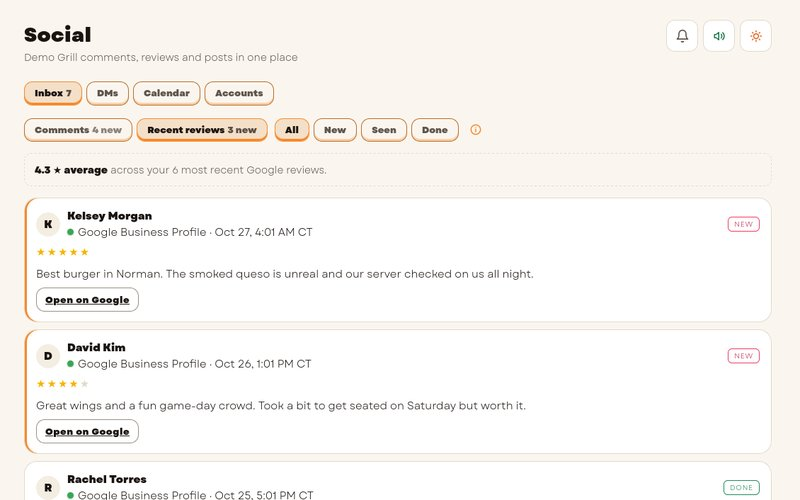
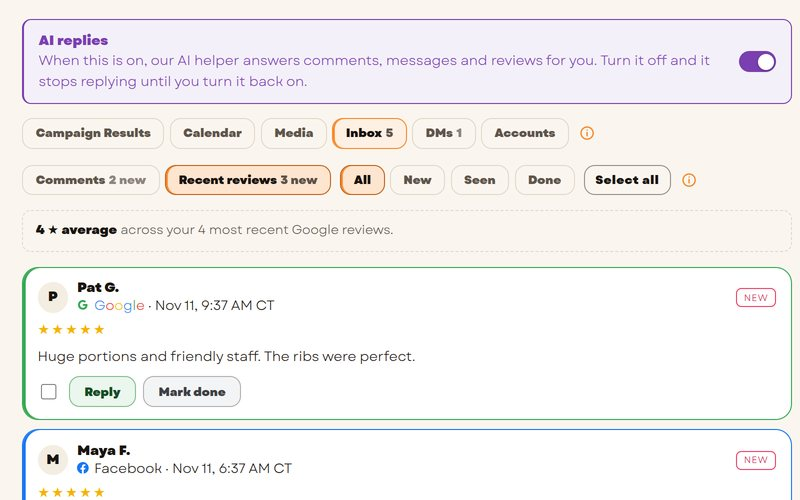
Mother Sauce page: refresh 11 screenshots and name AI replies in the Social card
Eleven screenshots replaced (jpg + webp, same paths, cache-busted to v=4):
menu builder, reservations, catering menus, dashboard hero, hiring jobs card,
team roles card, blog card, email alerts card, social card, reputation card,
site analytics card. The Social Media card now says the AI replies handle the
comments, messages and reviews that come back. Alt text unchanged.

diff --git a/sites/loadednacho/public/mother-sauce.html b/sites/loadednacho/public/mother-sauce.html
@@ -9,7 +9,7 @@
 <meta property="og:title" content="Mother Sauce | Loaded Nacho"><meta property="og:image" content="https://loadednacho.com/assets/img/logo-full.png">
 <link rel="icon" href="/favicon.ico?v=8" sizes="48x48"><link rel="icon" type="image/png" sizes="32x32" href="/assets/img/favicon-32.png?v=8"><link rel="icon" type="image/png" sizes="16x16" href="/assets/img/favicon-16.png?v=8"><link rel="icon" type="image/png" sizes="192x192" href="/assets/img/favicon-192.png?v=8"><link rel="apple-touch-icon" href="/assets/img/apple-touch-icon.png?v=8"><link rel="preload" href="/assets/fonts/Garet-Heavy.woff2" as="font" type="font/woff2" crossorigin>
 
-<link rel="stylesheet" href="/assets/style.css?v=34"><link rel="stylesheet" href="/assets/theme.css?v=23"><link rel="stylesheet" href="/assets/ms.css?v=18"><script type="application/ld+json">{"@context": "https://schema.org", "@type": "SoftwareApplication", "name": "Mother Sauce", "url": "https://loadednacho.com/mother-sauce", "sameAs": ["https://mothersauce.app"], "applicationCategory": "BusinessApplication", "operatingSystem": "Web", "description": "Mother Sauce is the Loaded Nacho command center for restaurants: one sign-in to manage menus and hours, reservations, catering, hiring, team roles, blog, email alerts, social media, reputation and site analytics. A live demo with sample data is at https://mothersauce.app/demo.", "image": "https://loadednacho.com/assets/img/ms/ms-dashboard-hero.jpg", "potentialAction": {"@type": "ViewAction", "name": "Try the live demo", "target": "https://mothersauce.app/demo"}, "publisher": {"@type": "Organization", "name": "Loaded Nacho LLC", "url": "https://loadednacho.com/", "logo": {"@type": "ImageObject", "url": "https://loadednacho.com/assets/img/mark.png"}}}</script>
+<link rel="stylesheet" href="/assets/style.css?v=34"><link rel="stylesheet" href="/assets/theme.css?v=23"><link rel="stylesheet" href="/assets/ms.css?v=18"><script type="application/ld+json">{"@context": "https://schema.org", "@type": "SoftwareApplication", "name": "Mother Sauce", "url": "https://loadednacho.com/mother-sauce", "sameAs": ["https://mothersauce.app"], "applicationCategory": "BusinessApplication", "operatingSystem": "Web", "description": "Mother Sauce is the Loaded Nacho command center for restaurants: one sign-in to manage menus and hours, reservations, catering, hiring, team roles, blog, email alerts, social media, reputation and site analytics. A live demo with sample data is at https://mothersauce.app/demo.", "image": "https://loadednacho.com/assets/img/ms/ms-dashboard-hero.jpg?v=4", "potentialAction": {"@type": "ViewAction", "name": "Try the live demo", "target": "https://mothersauce.app/demo"}, "publisher": {"@type": "Organization", "name": "Loaded Nacho LLC", "url": "https://loadednacho.com/", "logo": {"@type": "ImageObject", "url": "https://loadednacho.com/assets/img/mark.png"}}}</script>
 </head><body>
 <div class="grain"></div>
 <header class="nav" id="nav"><a href="/" class="brand"><img src="/assets/img/mark.png" alt="" width="40" height="40"><span>LOADED<b>NACHO</b></span></a>
@@ -20,19 +20,19 @@
 <main>
 <section id="features" class="sec"><div class="head reveal"><p class="kicker">What's inside</p><h2>Everything in <span class="hl">one place.</span></h2><p class="small">Screens show a demo restaurant with sample data.</p></div>
 <div class="ms-shots">
-<div class="ms-shot reveal"><div class="txt"><h3>Menu Builder &amp; Hours</h3><p>Build and update your menu: dishes, prices, photos and sold-out items go live on your site. Set weekly hours for each location and handle holiday changes.</p></div><div class="ms-frame"><div class="bar"><i></i><i></i><i></i><span>mothersauce.app</span></div><picture><source type="image/webp" srcset="/assets/img/ms/ms-menu-builder.webp"><img src="/assets/img/ms/ms-menu-builder.jpg" alt="Mother Sauce menu builder with a Starters category: item name, price, description, photo, sold-out and catering toggles (demo data)" width="1500" height="938" loading="lazy" decoding="async"></picture></div></div>
-<div class="ms-shot reveal"><div class="txt"><h3>Reservations</h3><p>Every table request from your website lands in one list, so nothing slips through on a busy night.</p></div><div class="ms-frame"><div class="bar"><i></i><i></i><i></i><span>mothersauce.app</span></div><picture><source type="image/webp" srcset="/assets/img/ms/ms-reservations.webp?v=2"><img src="/assets/img/ms/ms-reservations.jpg?v=2" alt="Mother Sauce reservations screen with email alerts, booking rules, and upcoming bookings with call, email and status buttons (demo data)" width="1400" height="875" loading="lazy" decoding="async"></picture></div></div>
-<div class="ms-shot reveal"><div class="txt"><h3>Catering &amp; Catering Menus</h3><p>Publish catering menus separate from your main menu, and track every catering inquiry from first request to booked.</p></div><div class="ms-frame"><div class="bar"><i></i><i></i><i></i><span>mothersauce.app</span></div><picture><source type="image/webp" srcset="/assets/img/ms/ms-catering-menus.webp"><img src="/assets/img/ms/ms-catering-menus.jpg" alt="Mother Sauce catering menus screen showing a Party Trays menu with sizes, price per person, serves and minimum (demo data)" width="1500" height="938" loading="lazy" decoding="async"></picture></div></div>
+<div class="ms-shot reveal"><div class="txt"><h3>Menu Builder &amp; Hours</h3><p>Build and update your menu: dishes, prices, photos and sold-out items go live on your site. Set weekly hours for each location and handle holiday changes.</p></div><div class="ms-frame"><div class="bar"><i></i><i></i><i></i><span>mothersauce.app</span></div><picture><source type="image/webp" srcset="/assets/img/ms/ms-menu-builder.webp?v=4"><img src="/assets/img/ms/ms-menu-builder.jpg?v=4" alt="Mother Sauce menu builder with a Starters category: item name, price, description, photo, sold-out and catering toggles (demo data)" width="1500" height="938" loading="lazy" decoding="async"></picture></div></div>
+<div class="ms-shot reveal"><div class="txt"><h3>Reservations</h3><p>Every table request from your website lands in one list, so nothing slips through on a busy night.</p></div><div class="ms-frame"><div class="bar"><i></i><i></i><i></i><span>mothersauce.app</span></div><picture><source type="image/webp" srcset="/assets/img/ms/ms-reservations.webp?v=4"><img src="/assets/img/ms/ms-reservations.jpg?v=4" alt="Mother Sauce reservations screen with email alerts, booking rules, and upcoming bookings with call, email and status buttons (demo data)" width="1400" height="875" loading="lazy" decoding="async"></picture></div></div>
+<div class="ms-shot reveal"><div class="txt"><h3>Catering &amp; Catering Menus</h3><p>Publish catering menus separate from your main menu, and track every catering inquiry from first request to booked.</p></div><div class="ms-frame"><div class="bar"><i></i><i></i><i></i><span>mothersauce.app</span></div><picture><source type="image/webp" srcset="/assets/img/ms/ms-catering-menus.webp?v=4"><img src="/assets/img/ms/ms-catering-menus.jpg?v=4" alt="Mother Sauce catering menus screen showing a Party Trays menu with sizes, price per person, serves and minimum (demo data)" width="1500" height="938" loading="lazy" decoding="async"></picture></div></div>
 </div>
 <div class="head reveal ms-more-head"><p class="kicker">And more</p><h2>Everything else <span class="hl">you need.</span></h2></div>
 <div class="ms-grid">
-<article class="ms-card reveal"><div class="ms-frame"><picture><source type="image/webp" srcset="/assets/img/ms/ms-hiring-jobs-card.webp"><img src="/assets/img/ms/ms-hiring-jobs-card.jpg" alt="Mother Sauce job listings with pay, location, applicant counts and site status (demo data)" width="800" height="500" loading="lazy" decoding="async"></picture></div><h3>Hiring</h3><p>Post open jobs on your site and review applications as they come in.</p></article>
-<article class="ms-card reveal"><div class="ms-frame"><picture><source type="image/webp" srcset="/assets/img/ms/ms-team-roles-card.webp"><img src="/assets/img/ms/ms-team-roles-card.jpg" alt="Mother Sauce team screen: invite form with role presets and a per-section permission grid (demo data)" width="800" height="500" loading="lazy" decoding="async"></picture></div><h3>Team Roles</h3><p>Give managers and staff their own sign-in with the right level of access.</p></article>
-<article class="ms-card reveal"><div class="ms-frame"><picture><source type="image/webp" srcset="/assets/img/ms/ms-blog-card.webp"><img src="/assets/img/ms/ms-blog-card.jpg" alt="Mother Sauce blog posts list with published, scheduled and draft posts and a New post button (demo data)" width="800" height="500" loading="lazy" decoding="async"></picture></div><h3>Blog</h3><p>Write and publish posts to your website to share news, events and stories.</p></article>
-<article class="ms-card reveal"><div class="ms-frame"><picture><source type="image/webp" srcset="/assets/img/ms/ms-email-alerts-card.webp"><img src="/assets/img/ms/ms-email-alerts-card.jpg" alt="Mother Sauce notice contacts: email alert recipients with per-event toggles and Send test (demo data)" width="800" height="500" loading="lazy" decoding="async"></picture></div><h3>Email Alerts</h3><p>Get an email the moment a new reservation, catering request or application comes in.</p></article>
-<article class="ms-card reveal"><div class="ms-frame"><picture><source type="image/webp" srcset="/assets/img/ms/ms-social-card.webp?v=1"><img src="/assets/img/ms/ms-social-card.jpg?v=1" alt="Mother Sauce social calendar: an October month view with scheduled Facebook, Instagram, Google Business Profile and TikTok posts (demo data)" width="800" height="500" loading="lazy" decoding="async"></picture></div><h3>Social Media</h3><p>Plan and keep up with your social media from the same place you run your site.</p></article>
-<article class="ms-card reveal"><div class="ms-frame"><picture><source type="image/webp" srcset="/assets/img/ms/ms-reputation-card.webp?v=1"><img src="/assets/img/ms/ms-reputation-card.jpg?v=1" alt="Mother Sauce review inbox: average rating and recent Google reviews with new and done status and Open on Google buttons (demo data)" width="800" height="500" loading="lazy" decoding="async"></picture></div><h3>Reputation</h3><p>A review inbox with your recent Google reviews, so you can see and respond to what guests are saying.</p></article>
-<article class="ms-card reveal"><div class="ms-frame"><picture><source type="image/webp" srcset="/assets/img/ms/ms-site-analytics-card.webp"><img src="/assets/img/ms/ms-site-analytics-card.jpg" alt="Mother Sauce analytics: visit and page view stats, a website traffic chart, traffic sources and top landing pages (demo data)" width="800" height="500" loading="lazy" decoding="async"></picture></div><h3>Site Analytics</h3><p>See how many people visit your site, where they come from and what they look at.</p></article>
+<article class="ms-card reveal"><div class="ms-frame"><picture><source type="image/webp" srcset="/assets/img/ms/ms-hiring-jobs-card.webp?v=4"><img src="/assets/img/ms/ms-hiring-jobs-card.jpg?v=4" alt="Mother Sauce job listings with pay, location, applicant counts and site status (demo data)" width="800" height="500" loading="lazy" decoding="async"></picture></div><h3>Hiring</h3><p>Post open jobs on your site and review applications as they come in.</p></article>
+<article class="ms-card reveal"><div class="ms-frame"><picture><source type="image/webp" srcset="/assets/img/ms/ms-team-roles-card.webp?v=4"><img src="/assets/img/ms/ms-team-roles-card.jpg?v=4" alt="Mother Sauce team screen: invite form with role presets and a per-section permission grid (demo data)" width="800" height="500" loading="lazy" decoding="async"></picture></div><h3>Team Roles</h3><p>Give managers and staff their own sign-in with the right level of access.</p></article>
+<article class="ms-card reveal"><div class="ms-frame"><picture><source type="image/webp" srcset="/assets/img/ms/ms-blog-card.webp?v=4"><img src="/assets/img/ms/ms-blog-card.jpg?v=4" alt="Mother Sauce blog posts list with published, scheduled and draft posts and a New post button (demo data)" width="800" height="500" loading="lazy" decoding="async"></picture></div><h3>Blog</h3><p>Write and publish posts to your website to share news, events and stories.</p></article>
+<article class="ms-card reveal"><div class="ms-frame"><picture><source type="image/webp" srcset="/assets/img/ms/ms-email-alerts-card.webp?v=4"><img src="/assets/img/ms/ms-email-alerts-card.jpg?v=4" alt="Mother Sauce notice contacts: email alert recipients with per-event toggles and Send test (demo data)" width="800" height="500" loading="lazy" decoding="async"></picture></div><h3>Email Alerts</h3><p>Get an email the moment a new reservation, catering request or application comes in.</p></article>
+<article class="ms-card reveal"><div class="ms-frame"><picture><source type="image/webp" srcset="/assets/img/ms/ms-social-card.webp?v=4"><img src="/assets/img/ms/ms-social-card.jpg?v=4" alt="Mother Sauce social calendar: an October month view with scheduled Facebook, Instagram, Google Business Profile and TikTok posts (demo data)" width="800" height="500" loading="lazy" decoding="async"></picture></div><h3>Social Media</h3><p>Schedule posts to Facebook, Instagram, Google Business Profile and TikTok — and let our AI replies handle the comments, messages and reviews that come back.</p></article>
+<article class="ms-card reveal"><div class="ms-frame"><picture><source type="image/webp" srcset="/assets/img/ms/ms-reputation-card.webp?v=4"><img src="/assets/img/ms/ms-reputation-card.jpg?v=4" alt="Mother Sauce review inbox: average rating and recent Google reviews with new and done status and Open on Google buttons (demo data)" width="800" height="500" loading="lazy" decoding="async"></picture></div><h3>Reputation</h3><p>A review inbox with your recent Google reviews, so you can see and respond to what guests are saying.</p></article>
+<article class="ms-card reveal"><div class="ms-frame"><picture><source type="image/webp" srcset="/assets/img/ms/ms-site-analytics-card.webp?v=4"><img src="/assets/img/ms/ms-site-analytics-card.jpg?v=4" alt="Mother Sauce analytics: visit and page view stats, a website traffic chart, traffic sources and top landing pages (demo data)" width="800" height="500" loading="lazy" decoding="async"></picture></div><h3>Site Analytics</h3><p>See how many people visit your site, where they come from and what they look at.</p></article>
 </div>
 </section>
 <section id="start" class="sec join reveal"><div class="join-in"><h2>Want Mother Sauce for your restaurant?</h2><p class="ms-incl">Included with every Loaded Nacho build-out.</p><div class="ms-ctas"><div class="ms-cta"><span class="ms-cta-l">Have an account?</span><a href="https://mothersauce.app/login" class="btn sm clog"><svg class="bi" viewBox="0 0 24 24" width="18" height="18" aria-hidden="true" focusable="false" fill="none" stroke="currentColor" stroke-width="2" stroke-linecap="round" stroke-linejoin="round"><path d="M15 3h4a2 2 0 0 1 2 2v14a2 2 0 0 1-2 2h-4"/><path d="M10 17l5-5-5-5"/><path d="M15 12H3"/></svg>Log in</a></div><div class="ms-cta"><span class="ms-cta-l">Want more info?</span><a href="/#contact" class="btn sm clog"><svg class="bi" viewBox="0 0 24 24" width="18" height="18" aria-hidden="true" focusable="false" fill="none" stroke="currentColor" stroke-width="2" stroke-linecap="round" stroke-linejoin="round"><path d="M5 12h14"/><path d="M13 6l6 6-6 6"/></svg>Contact us</a></div></div></div></section>
